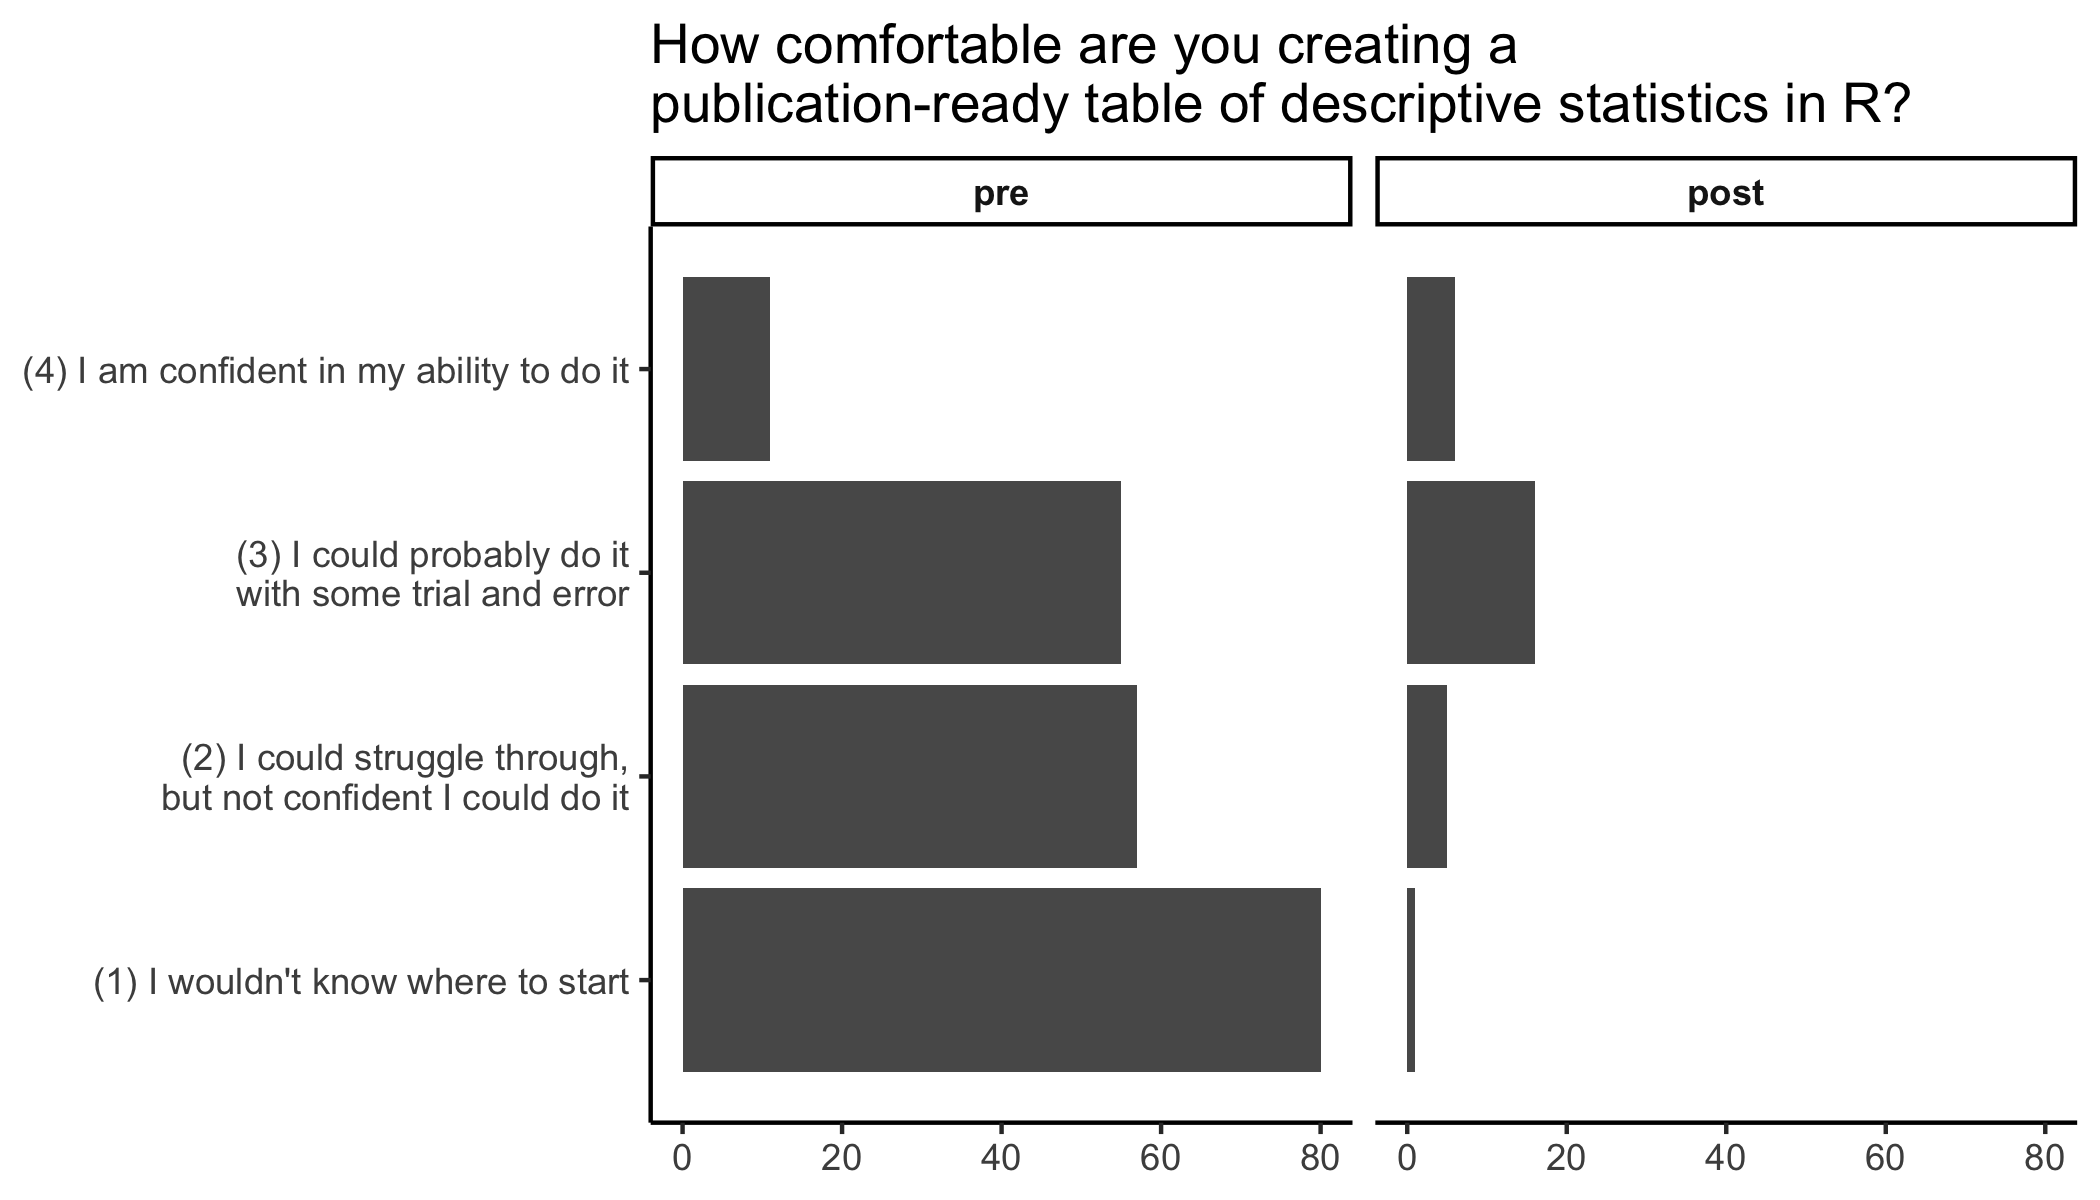
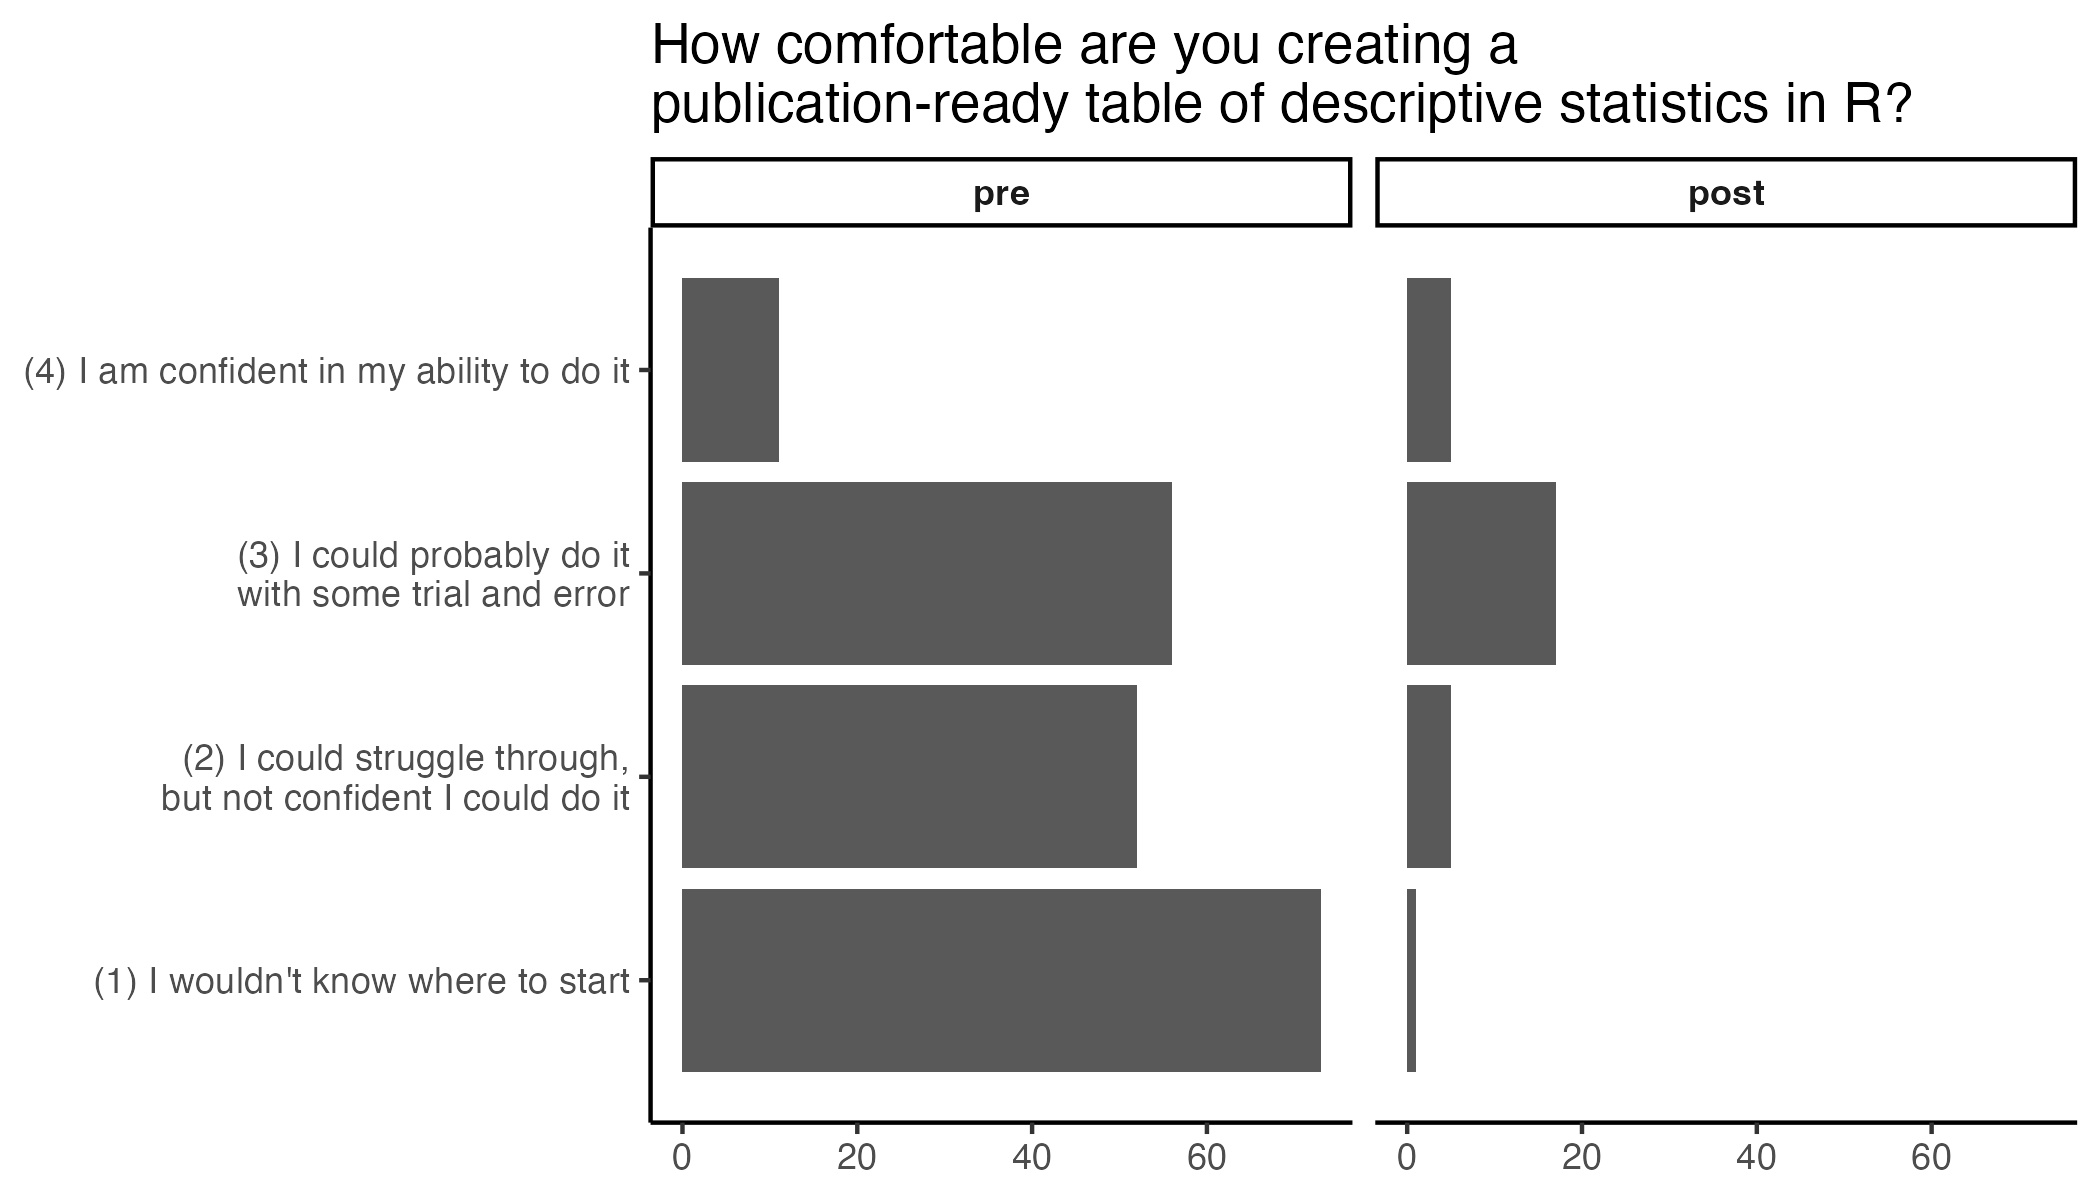
combine data from multiple records with the same email

diff --git a/for_organizers/analysis.md b/for_organizers/analysis.md
@@ -1,11 +1,36 @@
 R102 Workshop Analysis
 ================
 Rose Hartman
-2024-05-02
+2024-05-09
 
 ``` r
 library(ggplot2)
+library(dplyr)
 ```
+
+    ## 
+    ## Attaching package: 'dplyr'
+
+    ## The following objects are masked from 'package:stats':
+    ## 
+    ##     filter, lag
+
+    ## The following objects are masked from 'package:base':
+    ## 
+    ##     intersect, setdiff, setequal, union
+
+``` r
+library(tidyr)
+library(tidyselect)
+library(lubridate)
+```
+
+    ## 
+    ## Attaching package: 'lubridate'
+
+    ## The following objects are masked from 'package:base':
+    ## 
+    ##     date, intersect, setdiff, union
 
 ``` r
 # API tokens stored in .Renviron https://cran.r-project.org/web/packages/httr/vignettes/secrets.html#environment-variables
@@ -29,52 +54,102 @@ r102_raw <- httr::content(r102_response, show_col_types = FALSE)
 ```
 
 ``` r
+date_max <- function(dates){
+  if(all(is.na(dates))) {
+    return(as.Date(NA)) 
+  } else {
+    return(max(dates, na.rm = TRUE))
+  }
+}
+
+num_max <- function(numbers){
+  if(all(is.na(numbers))) {
+    return(NA) 
+  } else {
+    return(max(numbers, na.rm = TRUE))
+  }
+}
+  
+attend_max <- function(attend){
+  
+  levels <- c("no", "watch", "attend")
+  
+  if(all(is.na(attend))) {
+    return(factor(NA, levels = levels)) 
+  } else if("attend" %in% attend) {
+    return(factor("attend", levels = levels))
+  } else if("watch" %in% attend){
+    return(factor("watch", levels = levels))
+  } else if("no" %in% attend){
+    return(factor("no", levels = levels))
+  } else 
+    stop()
+}
+```
+
+``` r
 r102 <- r102_raw |> 
+  # clean up dates with lubridate
+    mutate(signup_date = ymd_hms(form_1_timestamp, quiet = TRUE),
+                mar_followup_date = ymd_hms(missing_values_in_r_follow_up_timestamp, quiet = TRUE),
+                apr_followup_date = ymd_hms(summary_stats_in_r_follow_up_timestamp, quiet = TRUE),
+                may_followup_date = ymd_hms(reshaping_data_in_tidyr_follow_up_timestamp, quiet = TRUE),
+                jun_followup_date = ymd_hms(data_types_and_viz_follow_up_timestamp, quiet = TRUE)) |> 
   # force all email to lowercase
-  dplyr::mutate(email = tolower(email)) |> 
-  # identify people who registered more than once with the same email
-  dplyr::add_count(email) |> 
+  mutate(email = tolower(email)) |> 
+  # select the columns to analyze
+  select(email, 
+         record_id,
+         ends_with("_date"), 
+         starts_with("attend_"),
+         starts_with("select_workshops_"),
+         ends_with("_complete"), 
+         missing_values, 
+         missing_values_2,
+         create_table,
+         create_table_2,
+         tidyr,
+         tidyr_2,
+         data_types,
+         data_types_2,
+         ggplot2,
+         ggplot2_2
+         ) |> 
+  # combine data from duplicate entries (people who registered more than once with the same email)
+  group_by(email) |> 
+  summarise(
+    across(starts_with("attend_"), attend_max),
+    across(ends_with("_date"), date_max),
+    across(!starts_with("attend_")&!ends_with("_date"), num_max),  
+    .groups = "drop") |> 
   # extract organization from email address
   tidyr::extract(email, into = "org", 
                  regex = "[^@]+@(.*)[.]edu", 
                  remove = FALSE) |> 
   # clean up org categories
-  dplyr::mutate(org = dplyr::case_when(grepl(x=org, pattern = "chop") ~ "CHOP",
+  mutate(org = case_when(grepl(x=org, pattern = "chop") ~ "CHOP",
                                        grepl(x=org, pattern = "upenn") ~ "Penn",
                                        TRUE ~ "Other"),
-                org = as.factor(org)) |> 
-  # clean up dates
-    dplyr::mutate(signup_date = lubridate::ymd_hms(form_1_timestamp),
-                mar_followup_date = lubridate::ymd_hms(missing_values_in_r_follow_up_timestamp),
-                apr_followup_date = lubridate::ymd_hms(summary_stats_in_r_follow_up_timestamp),
-                may_followup_date = lubridate::ymd_hms(reshaping_data_in_tidyr_follow_up_timestamp),
-                jun_followup_date = lubridate::ymd_hms(data_types_and_viz_follow_up_timestamp))
-```
-
-    ## Warning: There were 2 warnings in `dplyr::mutate()`.
-    ## The first warning was:
-    ## ℹ In argument: `signup_date = lubridate::ymd_hms(form_1_timestamp)`.
-    ## Caused by warning:
-    ## !  8 failed to parse.
-    ## ℹ Run `dplyr::last_dplyr_warnings()` to see the 1 remaining warning.
-
-``` r
+                org = as.factor(org))  
+  
+  
 plot_data <- r102 |> 
-  dplyr::select(record_id, missing_values_1 = missing_values, 
-                create_table_1 = create_table,
-                tidyr_1 = tidyr,
-                data_types_1 = data_types,
-                ggplot2_1 = ggplot2, 
-                tidyselect::ends_with("_2")) |> 
+  select(record_id, 
+         missing_values_1 = missing_values, 
+         create_table_1 = create_table,
+         tidyr_1 = tidyr,
+         data_types_1 = data_types,
+         ggplot2_1 = ggplot2, 
+         ends_with("_2")) |> 
   tidyr::pivot_longer(-record_id, values_to = "ability") |> 
   tidyr::extract(name, into=c("topic", "event"), regex="(.*)_([12])") |> 
-  dplyr::mutate(event = factor(event, levels = 1:2, labels = c("pre", "post"))) 
+  mutate(event = factor(event, levels = 1:2, labels = c("pre", "post"))) 
 ```
 
 ``` r
 ability_plot <- function(df){
   base_plot <- df |> 
-  dplyr::filter(event %in% c("pre", "post")) |> 
+  filter(event %in% c("pre", "post")) |> 
   ggplot(aes(y=ability)) + 
   geom_bar() +
   # geom_histogram(bins = 6) + 
@@ -137,15 +212,15 @@ eval_jun = sum(r102$data_types_and_viz_follow_up_complete == 2) > 0
 
 ## Missing Values in R
 
-157 signups.
+153 signups.
 
-48 responses on post-workshop survey.
+47 responses on post-workshop survey.
 
 All available responses at pre and post:
 
 ``` r
 p <- plot_data |> 
-  dplyr::filter(topic == "missing_values") |> 
+  filter(topic == "missing_values") |> 
   ability_plot() +
   labs(title = "How comfortable are you with identifying\nand working with missing values in R?")
 ```
@@ -162,7 +237,7 @@ ggsave("prepost_03_all.png",
        height = 4, width = 7, units = "in")
 ```
 
-    ## Warning: Removed 314 rows containing non-finite outside the scale range
+    ## Warning: Removed 275 rows containing non-finite outside the scale range
     ## (`stat_count()`).
 
 ![](prepost_03_all.png)
@@ -171,13 +246,13 @@ Just folks who did respond at post:
 
 ``` r
 p <- plot_data |> 
-  dplyr::filter(topic == "missing_values") |> 
+  filter(topic == "missing_values") |> 
   # remove folks who are NA for either pre or post
   tidyr::pivot_wider(names_from = event, values_from = ability) |> 
   na.omit() |> 
   # pivot back to long for plotting
   tidyr::pivot_longer(pre:post, names_to = "event", values_to = "ability") |> 
-  dplyr::mutate(event = factor(event, levels = c("pre", "post"))) |> 
+  mutate(event = factor(event, levels = c("pre", "post"))) |> 
   ability_plot() +
   labs(title = "How comfortable are you with identifying\nand working with missing values in R?", 
        subtitle = "Only participants who responded at pre and post")
@@ -195,19 +270,19 @@ mar_test <- t.test(r102$missing_values_2, r102$missing_values, paired = TRUE)
 
 We saw significant improvement from pre to post after the Missing Values
 in R session, with respondents reporting higher ability afterward, t(40)
-= 5.31, p \< .001.
+= 5.57, p \< .001.
 
 ## Summary Stats
 
-214 signups.
+198 signups.
 
-37 responses on post-workshop survey.
+36 responses on post-workshop survey.
 
 All available responses at pre and post:
 
 ``` r
 p <- plot_data |> 
-  dplyr::filter(topic == "create_table") |> 
+  filter(topic == "create_table") |> 
   ability_plot() +
   labs(title = "How comfortable are you creating a\npublication-ready table of descriptive statistics in R?")
 
@@ -216,7 +291,7 @@ ggsave("prepost_04_all.png",
        height = 4, width = 7, units = "in")
 ```
 
-    ## Warning: Removed 275 rows containing non-finite outside the scale range
+    ## Warning: Removed 246 rows containing non-finite outside the scale range
     ## (`stat_count()`).
 
 ![](prepost_04_all.png)
@@ -225,13 +300,13 @@ Just folks who did respond at post:
 
 ``` r
 p <- plot_data |> 
-  dplyr::filter(topic == "create_table") |> 
+  filter(topic == "create_table") |> 
   # remove folks who are NA for either pre or post
   tidyr::pivot_wider(names_from = event, values_from = ability) |> 
   na.omit() |> 
   # pivot back to long for plotting
   tidyr::pivot_longer(pre:post, names_to = "event", values_to = "ability") |> 
-  dplyr::mutate(event = factor(event, levels = c("pre", "post"))) |> 
+  mutate(event = factor(event, levels = c("pre", "post"))) |> 
   ability_plot() +
   labs(title = "How comfortable are you creating a\npublication-ready table of descriptive statistics in R?", 
        subtitle = "Only participants who responded at pre and post")
@@ -249,11 +324,11 @@ apr_test <- t.test(r102$create_table_2, r102$create_table, paired = TRUE)
 
 We saw significant improvement from pre to post after the Summary
 Statistics in R session, with respondents reporting higher ability
-afterward, t(27) = 3.81, p \< .001.
+afterward, t(27) = 3.29, p = .003.
 
 ## Tidyr
 
-214 signups.
+200 signups.
 
 0 responses on post-workshop survey.
 
@@ -261,7 +336,7 @@ All available responses at pre and post:
 
 ``` r
 p <- plot_data |> 
-  dplyr::filter(topic == "tidyr") |> 
+  filter(topic == "tidyr") |> 
   ability_plot() +
   labs(title = "How comfortable are you reshaping data\nwith the tidyr package in R?")
 
@@ -274,13 +349,13 @@ Just folks who did respond at post:
 
 ``` r
 p <- plot_data |> 
-  dplyr::filter(topic == "tidyr") |> 
+  filter(topic == "tidyr") |> 
   # remove folks who are NA for either pre or post
   tidyr::pivot_wider(names_from = event, values_from = ability) |> 
   na.omit() |> 
   # pivot back to long for plotting
   tidyr::pivot_longer(pre:post, names_to = "event", values_to = "ability") |> 
-  dplyr::mutate(event = factor(event, levels = c("pre", "post"))) |> 
+  mutate(event = factor(event, levels = c("pre", "post"))) |> 
   ability_plot() +
   labs(title = "How comfortable are you reshaping data\nwith the tidyr package in R?", 
        subtitle = "Only participants who responded at pre and post")
@@ -300,7 +375,7 @@ with tidyr session, with respondents reporting higher ability afterward,
 
 ## Data types and viz
 
-218 signups.
+206 signups.
 
 0 responses on post-workshop survey.
 
@@ -308,12 +383,12 @@ All available responses at pre and post:
 
 ``` r
 p1 <- plot_data |> 
-  dplyr::filter(topic == "data_types") |> 
+  filter(topic == "data_types") |> 
   ability_plot() +
   labs(title = "How comfortable are you identifying and\nmanipulating different data types in R?")
 
 p2 <- plot_data |> 
-  dplyr::filter(topic == "ggplot2") |> 
+  filter(topic == "ggplot2") |> 
   ability_plot() +
   labs(title = "How comfortable are you creating\ndata visualizations in R with ggplot2?")
 
@@ -330,25 +405,25 @@ Just folks who did respond at post:
 
 ``` r
 p1 <- plot_data |> 
-  dplyr::filter(topic == "data_types") |> 
+  filter(topic == "data_types") |> 
   # remove folks who are NA for either pre or post
   tidyr::pivot_wider(names_from = event, values_from = ability) |> 
   na.omit() |> 
   # pivot back to long for plotting
   tidyr::pivot_longer(pre:post, names_to = "event", values_to = "ability") |> 
-  dplyr::mutate(event = factor(event, levels = c("pre", "post"))) |> 
+  mutate(event = factor(event, levels = c("pre", "post"))) |> 
   ability_plot() +
   labs(title = "How comfortable are you identifying and\nmanipulating different data types in R?", 
        subtitle = "Only participants who responded at pre and post")
 
 p2 <- plot_data |> 
-  dplyr::filter(topic == "ggplot2") |> 
+  filter(topic == "ggplot2") |> 
   # remove folks who are NA for either pre or post
   tidyr::pivot_wider(names_from = event, values_from = ability) |> 
   na.omit() |> 
   # pivot back to long for plotting
   tidyr::pivot_longer(pre:post, names_to = "event", values_to = "ability") |> 
-  dplyr::mutate(event = factor(event, levels = c("pre", "post"))) |> 
+  mutate(event = factor(event, levels = c("pre", "post"))) |> 
   ability_plot() +
   labs(title = "How comfortable are you creating\ndata visualizations in R with ggplot2?", 
        subtitle = "Only participants who responded at pre and post")
